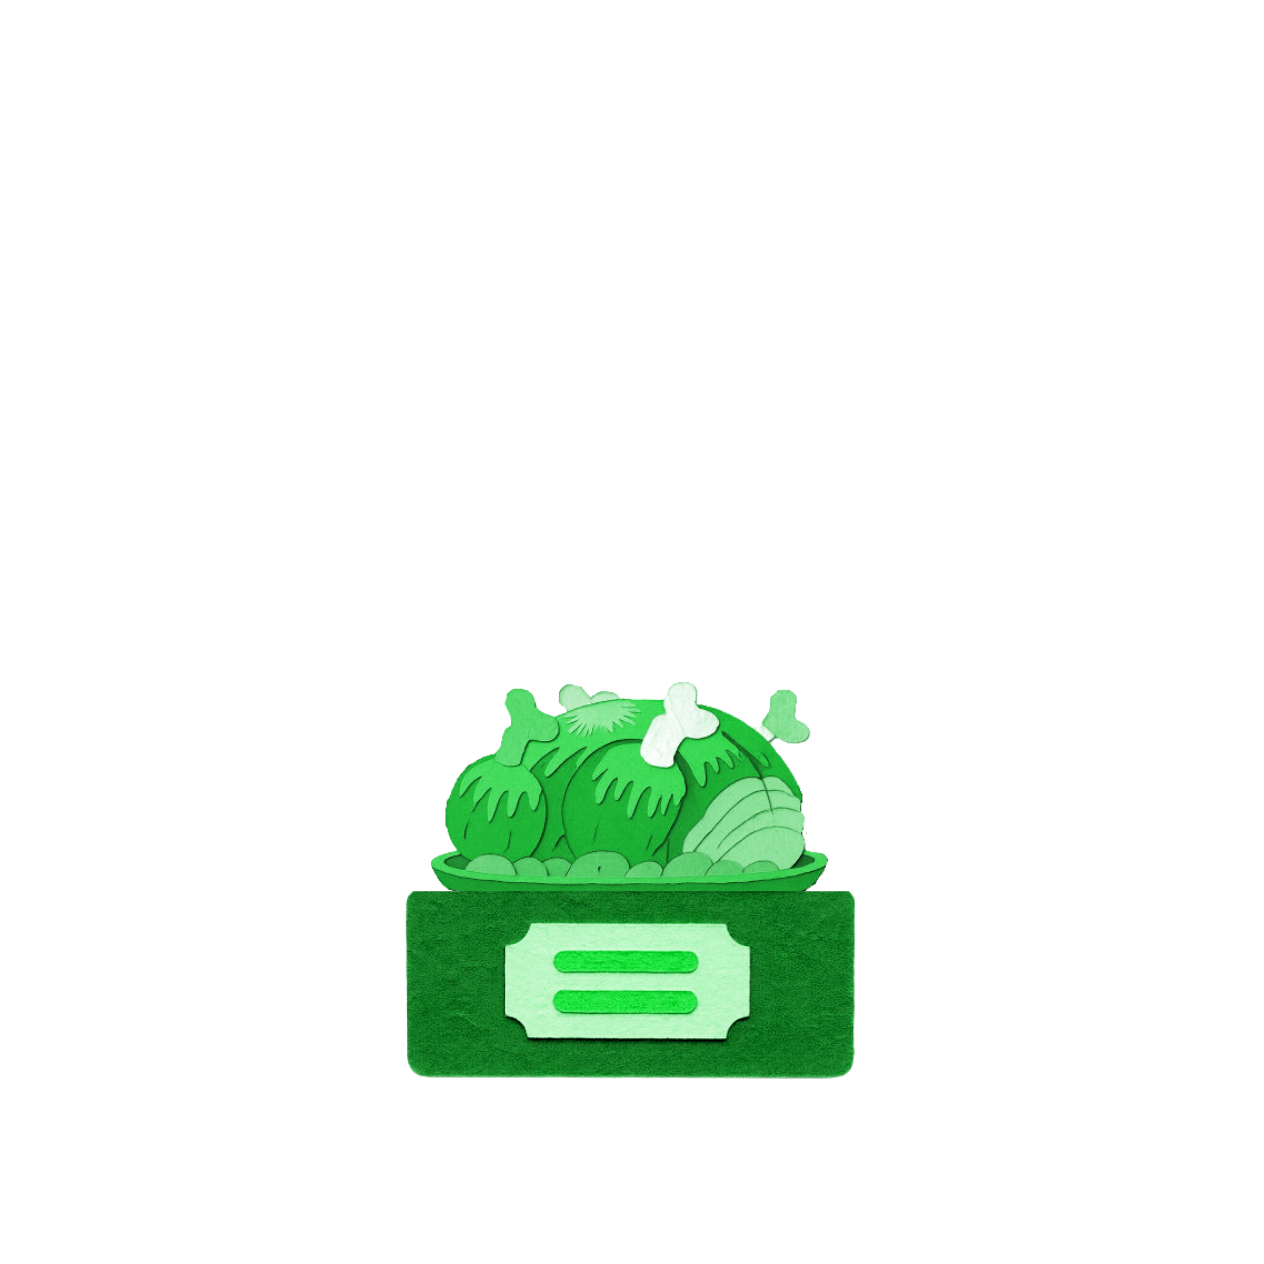
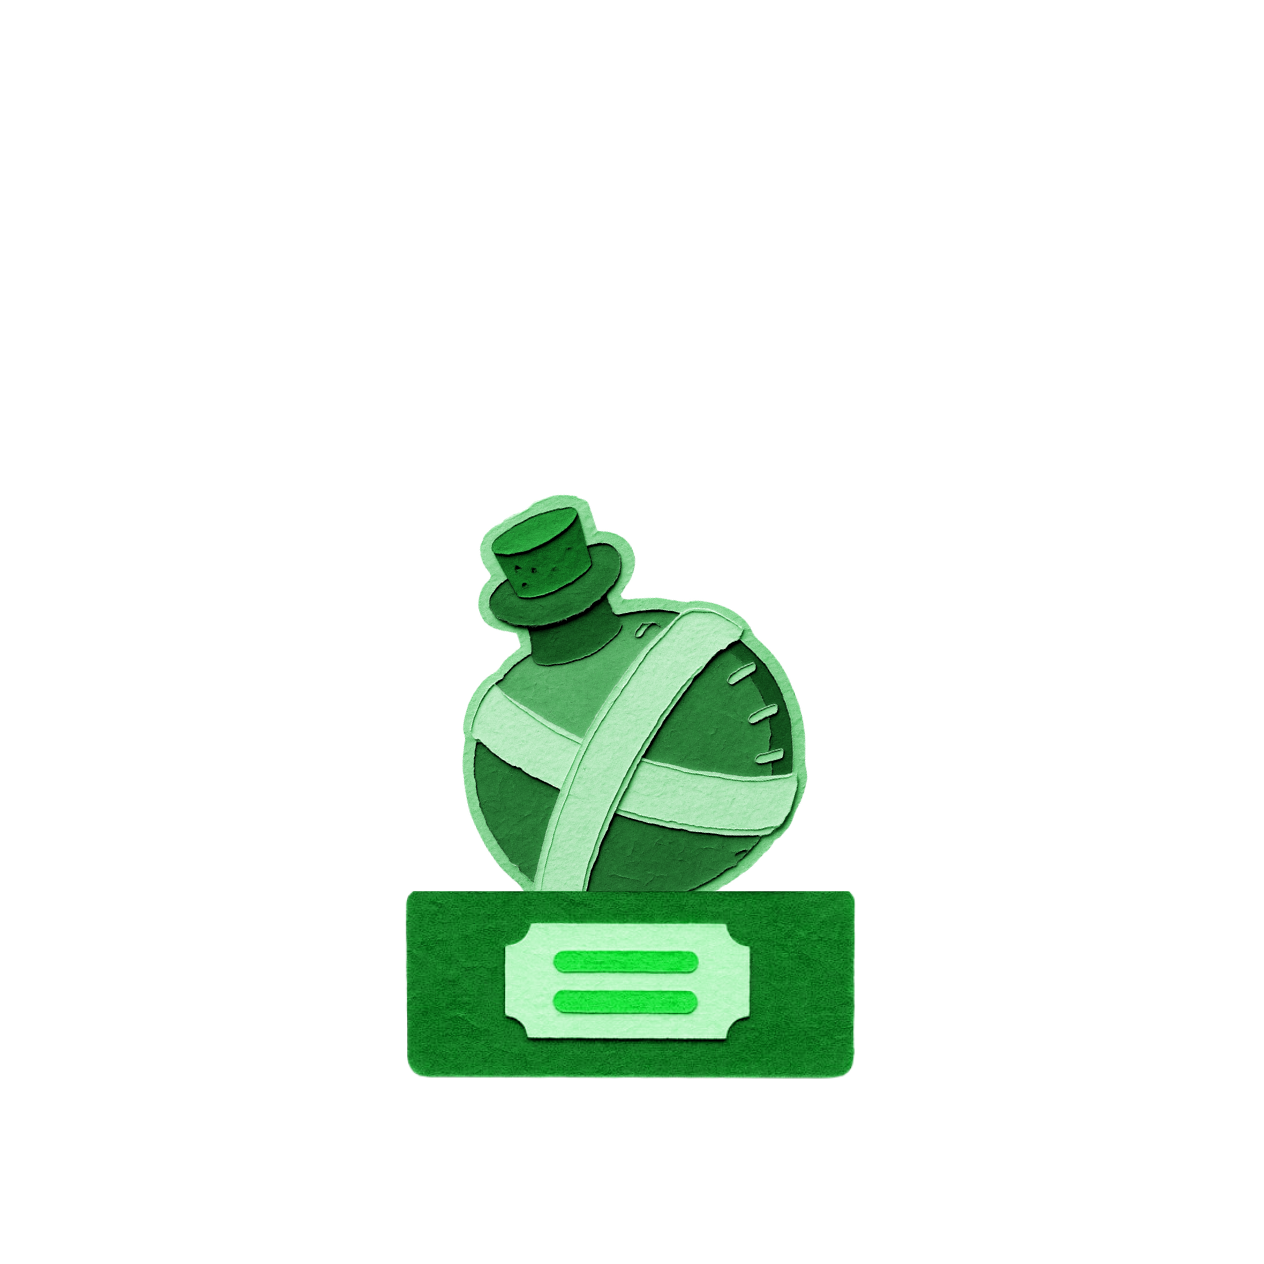
Trophee Gaulois Emeraude : remplace le sanglier roti par la potion magique (gourde verte) pour coller au tier Asterix. Cache v175.

Changed region(s): [[0.3394, 0.3703, 0.6479, 0.7097]]

diff --git a/service-worker.js b/service-worker.js
@@ -3,7 +3,7 @@
 //   puis rafraichit en background. Prochain reload = nouvelle version.
 // - Requetes cross-origin (Firestore, iNaturalist, xeno-canto, Wikipedia, etc.) : reseau seul.
 // - Bump CACHE_VERSION quand on veut invalider volontairement.
-const CACHE_VERSION = 'v174-2026-09-15-gaulois-ordralfabetix';
+const CACHE_VERSION = 'v175-2026-09-15-gaulois-emeraude-potion';
 const CACHE_NAME = 'lmb-' + CACHE_VERSION;
 
 self.addEventListener('install', (e) => {
